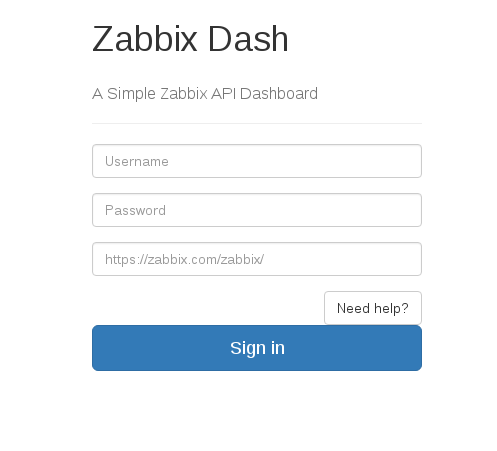
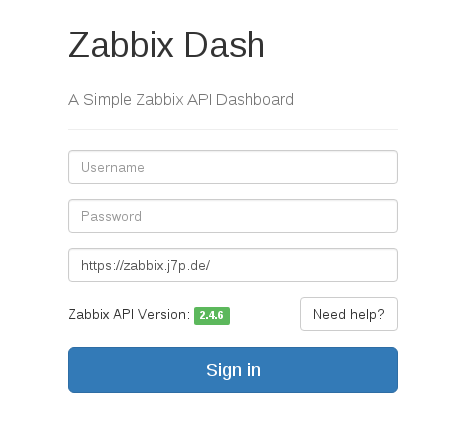
Login improovments

diff --git a/js/actions/login.js b/js/actions/login.js
@@ -6,6 +6,7 @@ define(['jquery', 'zabbix', 'libs/formatter'], function( $, zabbix, formatter ) 
               button.prop('disabled', true);
               var usernameField = $( "input[name='username']" ),
                   passwordField = $( "input[name='password']" ),
+                  url = $( "input[name='url']").val(),
                   username = usernameField.val(),
                   password = passwordField.val(),
                   usernameok = formatter.inputValidate(usernameField, username),
@@ -45,6 +46,7 @@ define(['jquery', 'zabbix', 'libs/formatter'], function( $, zabbix, formatter ) 
        apiversion: function () {
            var urlField = $( "input[name='url']"),
                urlFieldSpan = $( "#zabbix-version" ),
+               loginButton = $( '#zbxlogin' );
                success = function ( response, status ) {
                    urlFieldSpan.removeAttr('class');
                    if ( response.result === "2.4.6" ) {
@@ -52,11 +54,13 @@ define(['jquery', 'zabbix', 'libs/formatter'], function( $, zabbix, formatter ) 
                    } else {
                        urlFieldSpan.addClass("label label-warning");
                    }
+                   loginButton.prop('disabled', false);
                    urlFieldSpan.text(response.result);
                },
                error = function ( response, status ) {
                    urlFieldSpan.removeAttr('class').addClass("label label-danger");
                    urlFieldSpan.text("No valid url");
+                   loginButton.prop('disabled', true);
                },
                getVersion = function () {
                    zabbix.zabbixAjax("apiinfo.version", [], success, error, false);
@@ -71,7 +75,7 @@ define(['jquery', 'zabbix', 'libs/formatter'], function( $, zabbix, formatter ) 
                    localStorage.setItem('zbxurl', url);
                    getVersion();
                } else {
-                   error;
+                   error();
                }
            });
        }

diff --git a/css/my.css b/css/my.css
@@ -3,31 +3,31 @@
     margin-left: 0px;
 }
 
-.label-font-color {
+.trigger-label-font-color {
     color: #eee;
 }
 
-.label-disaster {
+.trigger-label-disaster {
     background-color: #FF3838;
 }
 
-.label-high {
+.trigger-label-high {
     background-color: #FF9999;
 }
 
-.label-average {
+.trigger-label-average {
     background-color: #FFB689;
 }
 
-.label-warning {
+.trigger-label-warning {
     background-color: #FFF6A5;
 }
 
-.label-information {
+.trigger-label-information {
     background-color: #D6F6FF;
 }
 
-.label-notclassified {
+.trigger-label-notclassified {
     background-color: #DBDBDB;
 }
 

diff --git a/js/libs/formatter.js b/js/libs/formatter.js
@@ -26,7 +26,7 @@ define(function() {
                     returnval = 'Not classified';
                     break;
             }
-            return '<span class="label label-' + returnval.toLowerCase() + ' label-font-color">' + returnval.replace(/\s/g, '') + '</span>';
+            return '<span class="label trigger-label-' + returnval.toLowerCase() + ' label-font-color">' + returnval.replace(/\s/g, '') + '</span>';
         },
         acknowledgeState: function (value) {
             type = "success";
